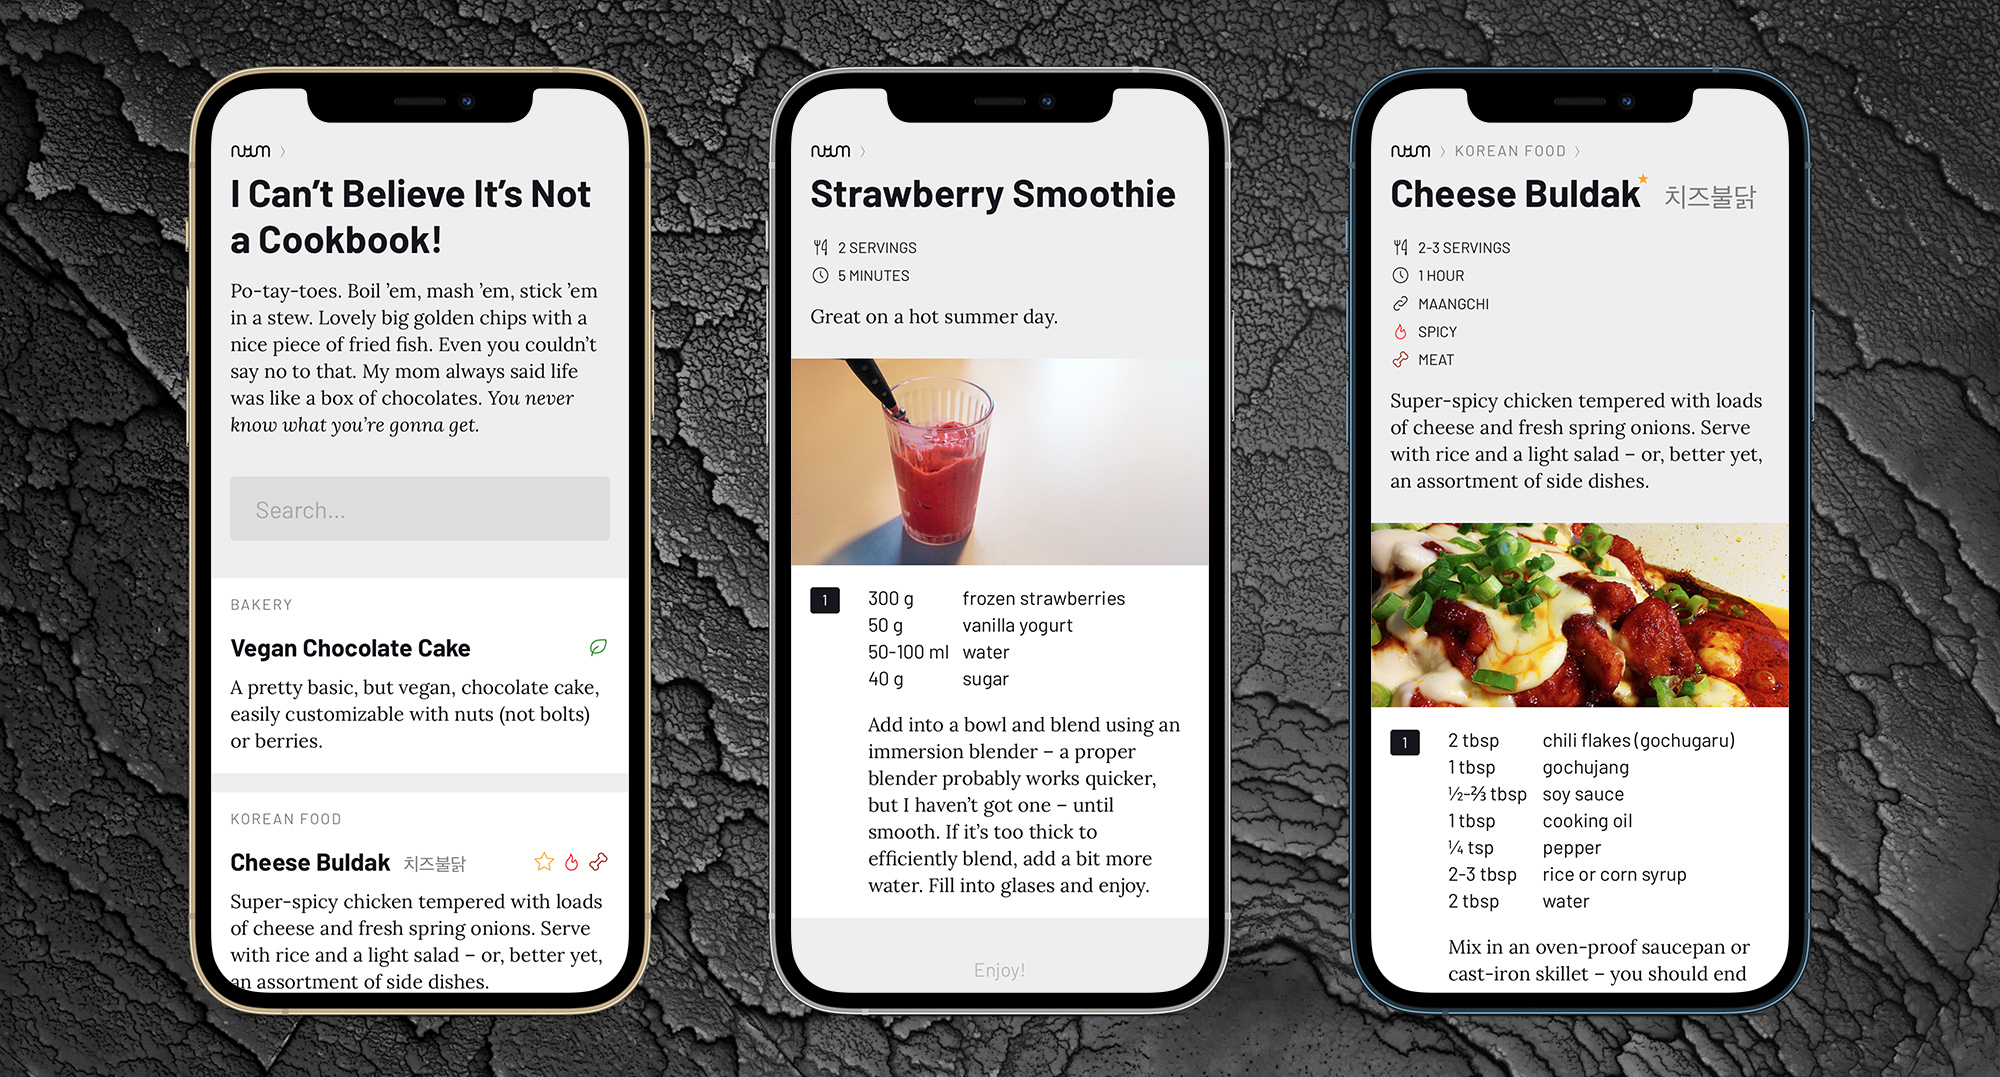
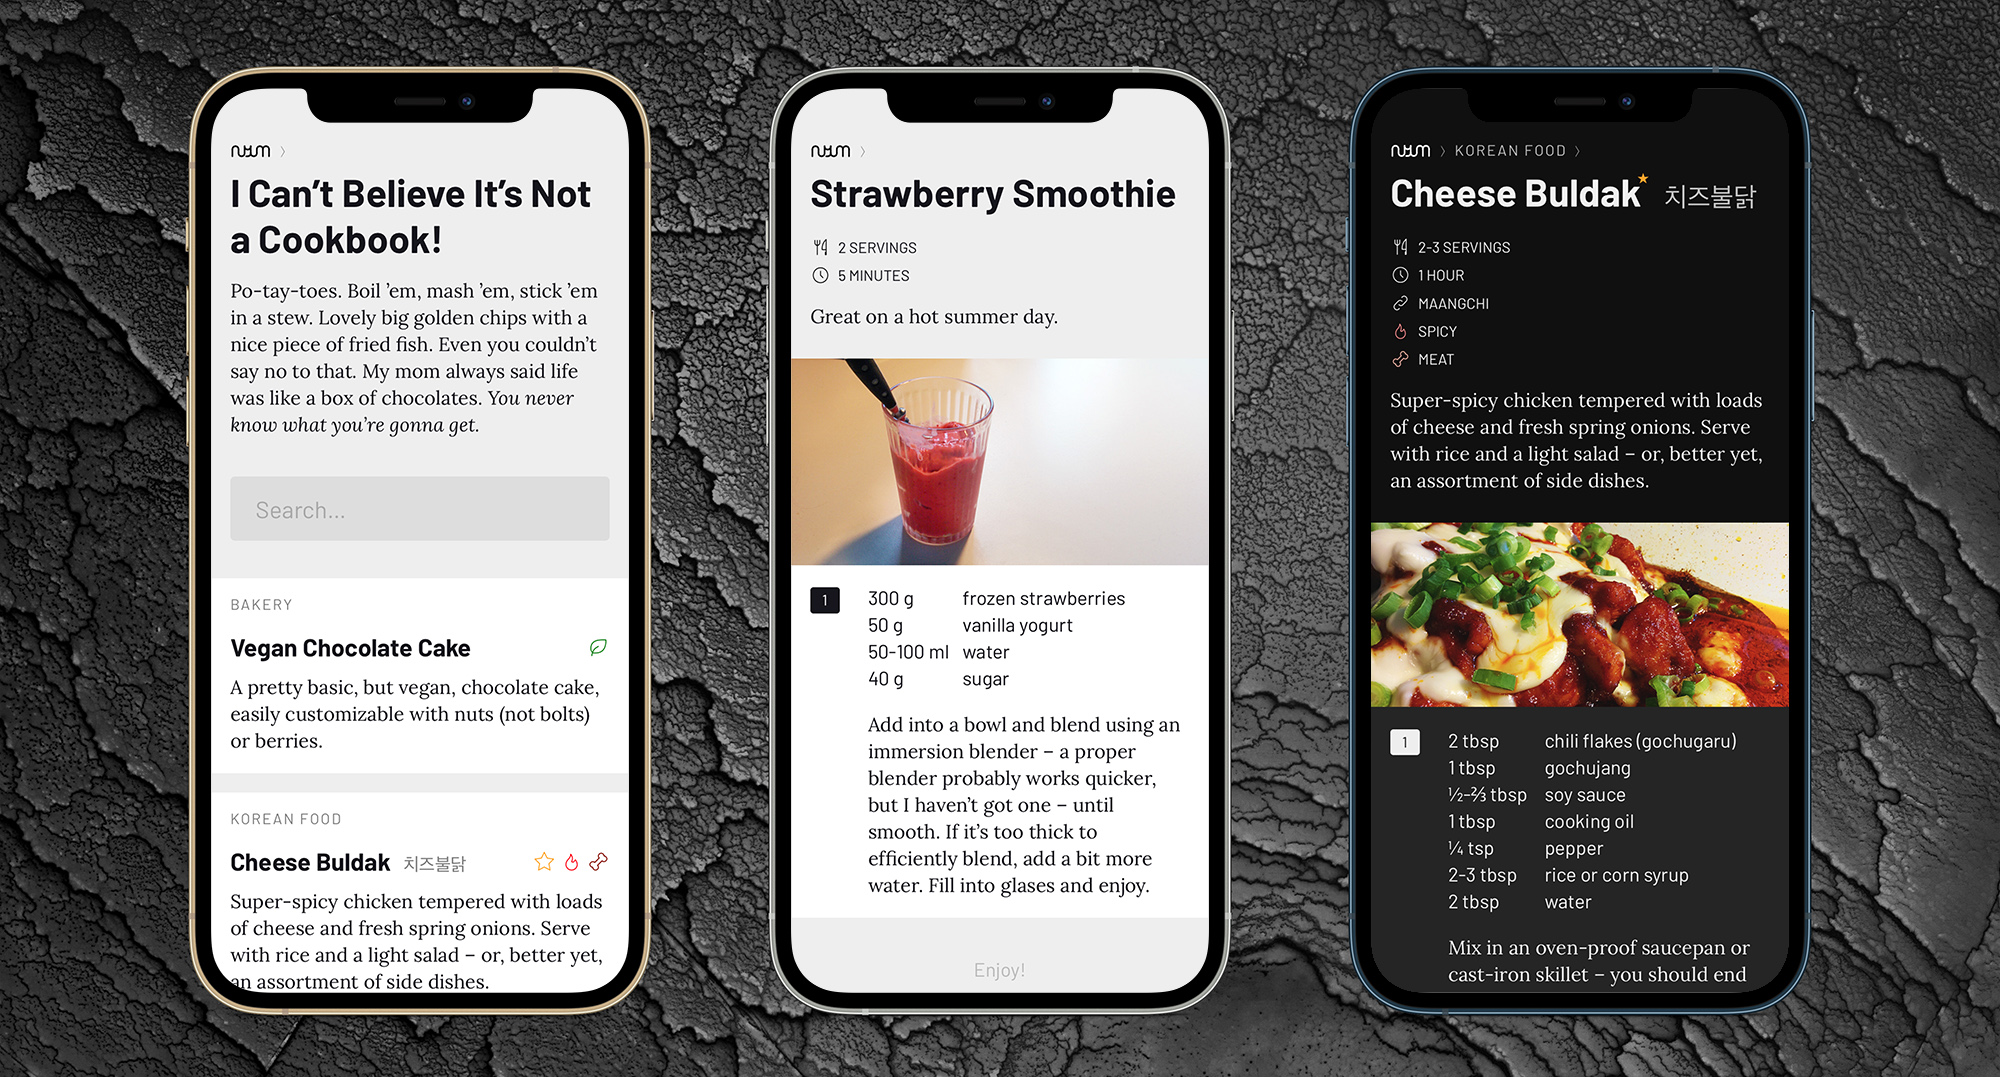
Implement dark mode

Changed region(s): [[0.682, 0.0613, 0.899, 0.5822], [0.682, 0.6128, 0.899, 0.9192]]

diff --git a/_assets/style.css b/_assets/style.css
@@ -2,12 +2,52 @@
     --page-background: #eee;
     --background: white;
     --foreground: #16161d;
+    --nav: gray;
+    --original-title: gray;
+    --icons-separator: #ccc;
+    --search-bar: #ddd;
+    --search-bar-outline: #ccc;
+    --search-results-separator: #ddd;
+    --highlighted-search-result: #f8f8f8;
+    --h2: gray;
+    --link: #239;
+    --attention: #810;
+    --horizontal-rule: #ddd;
+    --footer: #bbb;
+
     --sans: Barlow, Fabrikat, Helvetica, sans-serif;
     --serif: Lora, Georgia, serif;
 
     --step-number-column-width: 3em;
     --ingredient-quantity-column-width: 5em;
     --ingredient-name-column-width: 10em;
+}
+
+@media (prefers-color-scheme: dark) {
+    :root {
+        --page-background: black;
+        --background: #202020;
+        --foreground: #eee;
+        --nav: #bbb;
+        --original-title: #bbb;
+        --icons-separator: #404040;
+        --search-bar: #383838;
+        --search-bar-outline: #555;
+        --search-results-separator: #383838;
+        --highlighted-search-result: #181818;
+        --h2: #bbb;
+        --link: #9ae;
+        --attention: #fa7;
+        --horizontal-rule: #484848;
+        --footer: #555;
+    }
+
+    /* accessing the colors defined inside the svg isn't possible when embedded as an image and i don't want to inline them, so this is the best i can do */
+    header .logo,
+    header ul li img,
+    h3 .icons img {
+        filter: invert() hue-rotate(180deg);
+    }
 }
 
 * {
@@ -37,7 +77,7 @@ header .name {
 }
 header nav {
     margin: 0;
-    color: gray;
+    color: var(--nav);
     text-transform: uppercase;
     letter-spacing: 0.1em;
     font-size: 0.8em;
@@ -68,7 +108,7 @@ h1 sup {
     line-height: 1.6;
 }
 h1 em {
-    color: gray;
+    color: var(--original-title);
     font-size: 1.4rem;  /* to match x-height of heading */
     font-weight: normal;
     font-style: normal;
@@ -88,7 +128,7 @@ header ul {
 header ul li {
     list-style-type: none;
     padding: 0.5em 0.7em 0.5em 0.6em;  /* different on left and right to compensate for space (on left) and border (on right) */
-    border-right: 1px solid #ccc;
+    border-right: 1px solid var(--icons-separator);
     text-align: center;
     display: inline-block;
 }
@@ -144,18 +184,18 @@ header p {
 }
 .search input {
     border: 0;
-    background: transparent;
     width: 100%;
     padding: 0.6em 1.1rem;
     font-size: 1.2em;
     font-family: var(--sans);
-    background-color: #ddd;
+    background-color: var(--search-bar);
+    color: inherit;
     border-radius: 0.2em;
-    border: 0.2em solid #ddd;  /* same color as background, different on focus */
+    border: 0.2em solid var(--search-bar);  /* same color as background, different on focus */
     -webkit-appearance: none;  /* hide inset shadow on ios */
 }
 .search input:focus {
-    border-color: #ccc;
+    border-color: var(--search-bar-outline);
     outline: none;
 }
 .search input[disabled] {
@@ -170,18 +210,18 @@ header p {
     color: inherit;
 }
 .search .results h3 {
-    border-bottom: 1px solid #ddd;
+    border-bottom: 1px solid var(--search-results-separator);
     padding: 0.3rem 1rem 0.4rem;
     margin: 0 auto;
     width: calc(100% - 0.5em);
-    background-color: white;
+    background-color: var(--background);
 }
 .search .results a:last-child h3 {
     border-radius: 0 0 0.2em 0.2em;
     border-bottom: none;
 }
 .search .results a.selected h3 {
-    background-color: #f8f8f8;
+    background-color: var(--highlighted-search-result);
 }
 
 .servingsuggestion {
@@ -201,7 +241,7 @@ section {
 
 h2 {
     margin: 0.8rem 0;
-    color: gray;
+    color: var(--h2);
     text-transform: uppercase;
     font-size: 0.8em;
     letter-spacing: 0.1em;
@@ -217,7 +257,7 @@ h3 a {
     color: inherit;
 }
 h3 em {
-    color: gray;
+    color: var(--original-title);
     font-size: 0.95rem;  /* to match x-height of heading */
     font-weight: normal;
     font-style: normal;
@@ -250,11 +290,11 @@ ul, p {
 hr {
     border: 0;
     width: 100%;
-    border-top: 1px solid #ddd;  /* using a border instead of background color to circument no-background-colors print settings */
+    border-top: 1px solid var(--horizontal-rule);  /* using a border instead of background color to circument no-background-colors print settings */
 }
 .recipe hr {
     counter-increment: step;
-    margin-bottom: -2.45em;
+    margin-bottom: -2.4em;
     clear: right;  /* fix for long descriptions pushing across the hr in firefox */
 }
 .recipe hr + hr {  /* in case there is a leading hr in the document in addition to the hardcoded one */
@@ -332,13 +372,13 @@ blockquote blockquote blockquote {  /* for drawing attention to part of an instr
     background-repeat: no-repeat;
     padding-left: 1.3em;
     font-style: italic;
-    color: #810;
+    color: var(--attention);
 }
 blockquote blockquote blockquote em {
     font-style: normal;
 }
 a {
-    color: #239;
+    color: var(--link);
 }
 a:hover {
     opacity: 0.6;
@@ -346,7 +386,7 @@ a:hover {
 
 footer {
     text-align: center;
-    color: #bbb;
+    color: var(--footer);
     margin: 2em 0;
 }
 footer .updatedtime {

diff --git a/_site/assets/style.css b/_site/assets/style.css
@@ -2,12 +2,52 @@
     --page-background: #eee;
     --background: white;
     --foreground: #16161d;
+    --nav: gray;
+    --original-title: gray;
+    --icons-separator: #ccc;
+    --search-bar: #ddd;
+    --search-bar-outline: #ccc;
+    --search-results-separator: #ddd;
+    --highlighted-search-result: #f8f8f8;
+    --h2: gray;
+    --link: #239;
+    --attention: #810;
+    --horizontal-rule: #ddd;
+    --footer: #bbb;
+
     --sans: Barlow, Fabrikat, Helvetica, sans-serif;
     --serif: Lora, Georgia, serif;
 
     --step-number-column-width: 3em;
     --ingredient-quantity-column-width: 5em;
     --ingredient-name-column-width: 10em;
+}
+
+@media (prefers-color-scheme: dark) {
+    :root {
+        --page-background: black;
+        --background: #202020;
+        --foreground: #eee;
+        --nav: #bbb;
+        --original-title: #bbb;
+        --icons-separator: #404040;
+        --search-bar: #383838;
+        --search-bar-outline: #555;
+        --search-results-separator: #383838;
+        --highlighted-search-result: #181818;
+        --h2: #bbb;
+        --link: #9ae;
+        --attention: #fa7;
+        --horizontal-rule: #484848;
+        --footer: #555;
+    }
+
+    /* accessing the colors defined inside the svg isn't possible when embedded as an image and i don't want to inline them, so this is the best i can do */
+    header .logo,
+    header ul li img,
+    h3 .icons img {
+        filter: invert() hue-rotate(180deg);
+    }
 }
 
 * {
@@ -37,7 +77,7 @@ header .name {
 }
 header nav {
     margin: 0;
-    color: gray;
+    color: var(--nav);
     text-transform: uppercase;
     letter-spacing: 0.1em;
     font-size: 0.8em;
@@ -68,7 +108,7 @@ h1 sup {
     line-height: 1.6;
 }
 h1 em {
-    color: gray;
+    color: var(--original-title);
     font-size: 1.4rem;  /* to match x-height of heading */
     font-weight: normal;
     font-style: normal;
@@ -88,7 +128,7 @@ header ul {
 header ul li {
     list-style-type: none;
     padding: 0.5em 0.7em 0.5em 0.6em;  /* different on left and right to compensate for space (on left) and border (on right) */
-    border-right: 1px solid #ccc;
+    border-right: 1px solid var(--icons-separator);
     text-align: center;
     display: inline-block;
 }
@@ -144,18 +184,18 @@ header p {
 }
 .search input {
     border: 0;
-    background: transparent;
     width: 100%;
     padding: 0.6em 1.1rem;
     font-size: 1.2em;
     font-family: var(--sans);
-    background-color: #ddd;
+    background-color: var(--search-bar);
+    color: inherit;
     border-radius: 0.2em;
-    border: 0.2em solid #ddd;  /* same color as background, different on focus */
+    border: 0.2em solid var(--search-bar);  /* same color as background, different on focus */
     -webkit-appearance: none;  /* hide inset shadow on ios */
 }
 .search input:focus {
-    border-color: #ccc;
+    border-color: var(--search-bar-outline);
     outline: none;
 }
 .search input[disabled] {
@@ -170,18 +210,18 @@ header p {
     color: inherit;
 }
 .search .results h3 {
-    border-bottom: 1px solid #ddd;
+    border-bottom: 1px solid var(--search-results-separator);
     padding: 0.3rem 1rem 0.4rem;
     margin: 0 auto;
     width: calc(100% - 0.5em);
-    background-color: white;
+    background-color: var(--background);
 }
 .search .results a:last-child h3 {
     border-radius: 0 0 0.2em 0.2em;
     border-bottom: none;
 }
 .search .results a.selected h3 {
-    background-color: #f8f8f8;
+    background-color: var(--highlighted-search-result);
 }
 
 .servingsuggestion {
@@ -201,7 +241,7 @@ section {
 
 h2 {
     margin: 0.8rem 0;
-    color: gray;
+    color: var(--h2);
     text-transform: uppercase;
     font-size: 0.8em;
     letter-spacing: 0.1em;
@@ -217,7 +257,7 @@ h3 a {
     color: inherit;
 }
 h3 em {
-    color: gray;
+    color: var(--original-title);
     font-size: 0.95rem;  /* to match x-height of heading */
     font-weight: normal;
     font-style: normal;
@@ -250,11 +290,11 @@ ul, p {
 hr {
     border: 0;
     width: 100%;
-    border-top: 1px solid #ddd;  /* using a border instead of background color to circument no-background-colors print settings */
+    border-top: 1px solid var(--horizontal-rule);  /* using a border instead of background color to circument no-background-colors print settings */
 }
 .recipe hr {
     counter-increment: step;
-    margin-bottom: -2.45em;
+    margin-bottom: -2.4em;
     clear: right;  /* fix for long descriptions pushing across the hr in firefox */
 }
 .recipe hr + hr {  /* in case there is a leading hr in the document in addition to the hardcoded one */
@@ -332,13 +372,13 @@ blockquote blockquote blockquote {  /* for drawing attention to part of an instr
     background-repeat: no-repeat;
     padding-left: 1.3em;
     font-style: italic;
-    color: #810;
+    color: var(--attention);
 }
 blockquote blockquote blockquote em {
     font-style: normal;
 }
 a {
-    color: #239;
+    color: var(--link);
 }
 a:hover {
     opacity: 0.6;
@@ -346,7 +386,7 @@ a:hover {
 
 footer {
     text-align: center;
-    color: #bbb;
+    color: var(--footer);
     margin: 2em 0;
 }
 footer .updatedtime {

diff --git a/_site/kkaennipjeon.html b/_site/kkaennipjeon.html
@@ -43,7 +43,7 @@
             <h2 id="actually-lets-demo-some-features">Actually, let’s demo some features!</h2>
             <hr />
             <blockquote>
-            <p>If you’re reading this “recipe” on the demo site, it might be instructive to look at the <a href="https://github.com/doersino/nyum/blob/main/_recipes/kkaennipjeon.md">source code</a> as well.</p>
+            <p>If you’re reading this “recipe” on the demo site or GitHub, it might be instructive to look at the <a href="https://raw.githubusercontent.com/doersino/nyum/main/_recipes/kkaennipjeon.md">source code</a> as well.</p>
             </blockquote>
             <hr />
             <blockquote>

diff --git a/README.md b/README.md
@@ -23,7 +23,7 @@ Below, on the right, is the same page shown at tablet scale. More interestingly,
 
 ![](_assets/readme-images/2-tablets.jpg)
 
-Finally, more of the same on three phone-sized screens. The three-column layout doesn't fit here, so instructions are shown below ingredients.
+Finally, more of the same on three phone-sized screens. The three-column layout doesn't fit here, so instructions are shown below ingredients. And *of course* the light's turned off if you've enabled dark mode on your device.
 
 ![](_assets/readme-images/3-phones.jpg)
 
